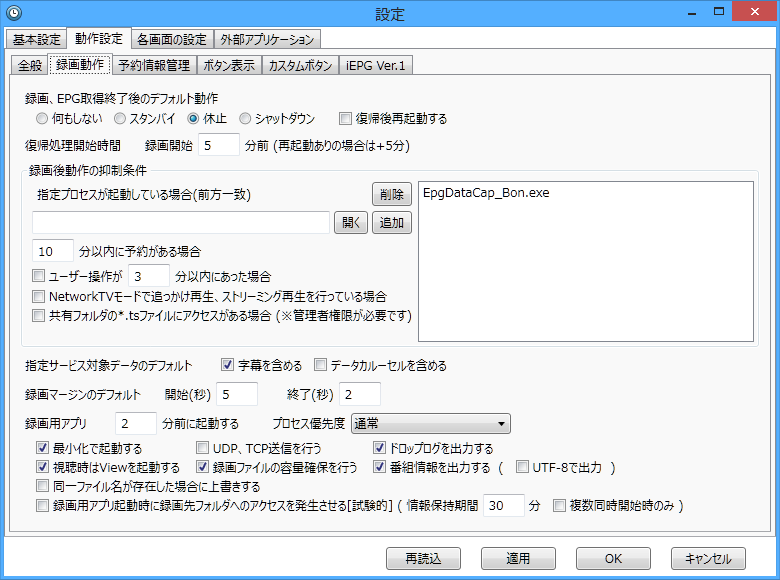
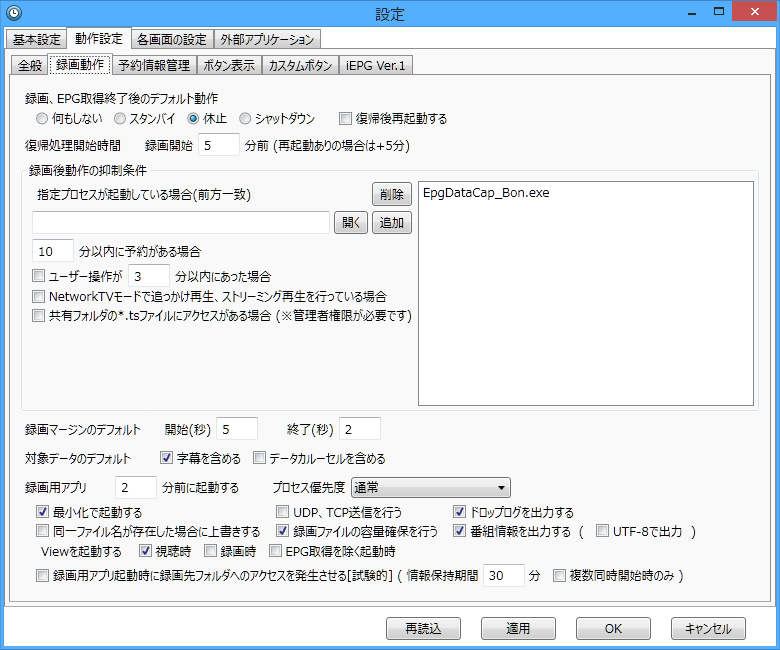
update

diff --git a/index.html b/index.html
@@ -22,7 +22,7 @@
 
 <h2 style="margin-top: 0em;">リポジトリに戻る</h2>
 <ul>
-<li><a href="https://github.com/tkntrec/EDCB">tkntrec@EDCB</a> (my-build-s 2023.09.22)</li>
+<li><a href="https://github.com/tkntrec/EDCB">tkntrec@EDCB</a> (my-build-s 2024.02.22)</li>
 <li><a href="https://github.com/tkntrec/EDCB_PrtSc">この画面一覧のリポジトリ</a></li>
 </ul>
 
